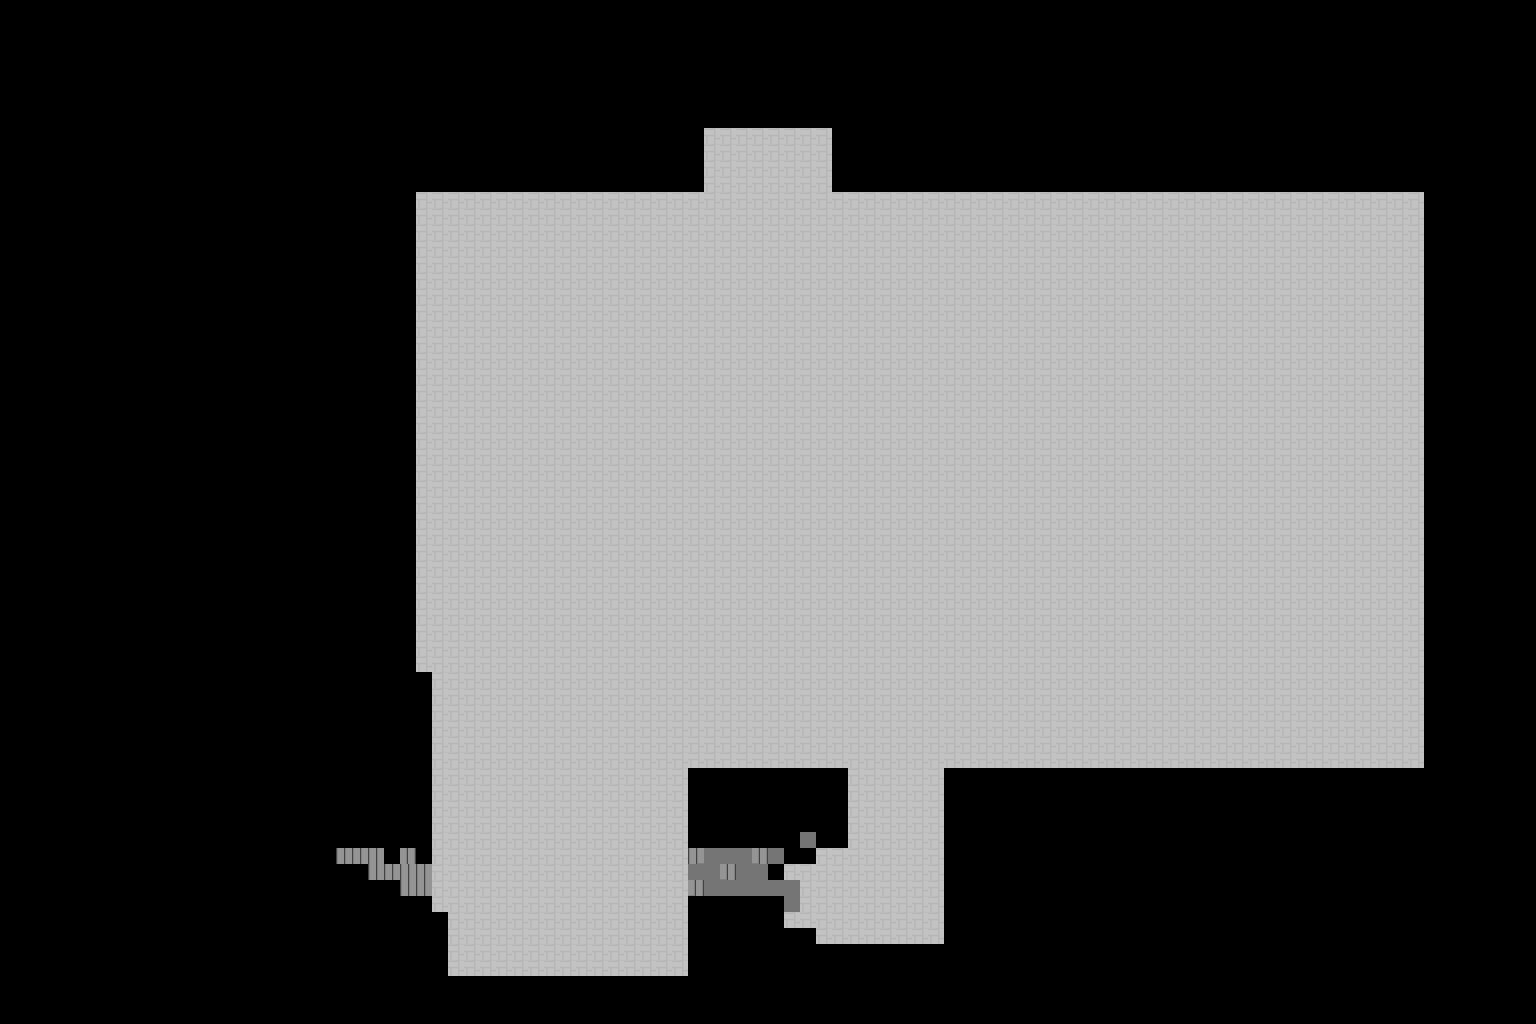
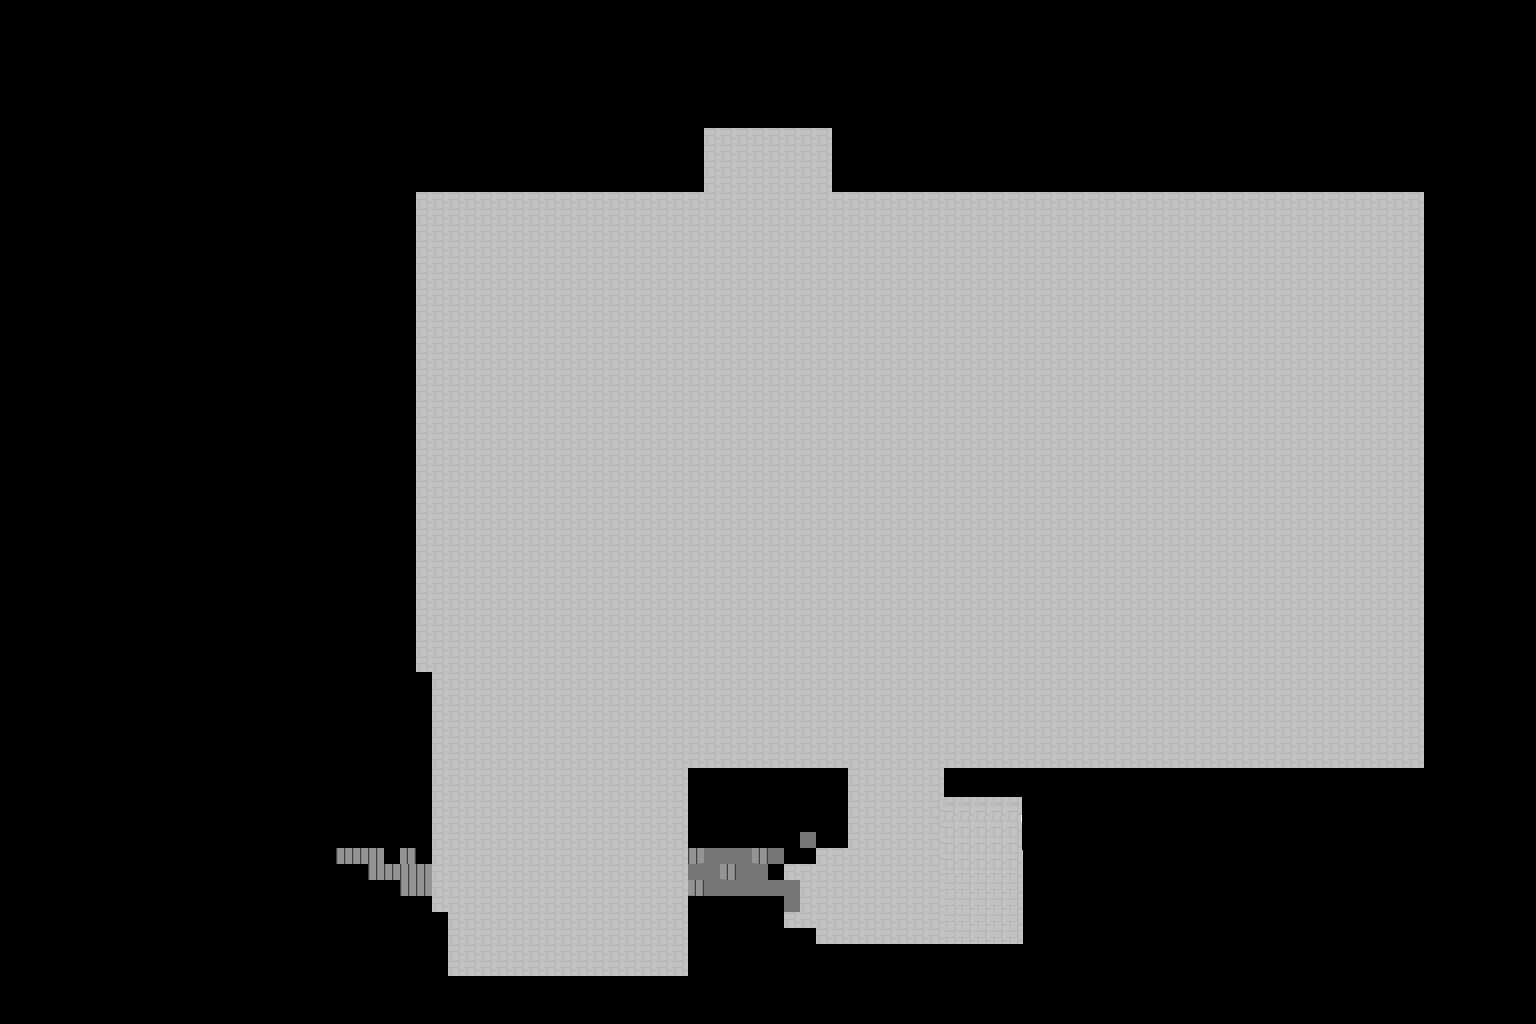
cubicle 2 adding walls

Changed region(s): [[0.5938, 0.7812, 0.6875, 0.9375]]

diff --git a/scenes/cubicle2.js b/scenes/cubicle2.js
@@ -22,8 +22,12 @@ export class Cubicle2 extends Phaser.Scene {
     this.load.image("escalera1Cu2", "assets/images/cubicle2/escalera1Cu2.png");
     this.load.image("escalera2Cu2", "assets/images/cubicle2/escalera2Cu2.png");
     this.load.image("cubicle2ParedSurEste", "assets/images/cubicle2/cubicle2ParedSurEste.png");
-  
-
+    this.load.image("cubicle2ParedMedioVertical", "assets/images/cubicle2/cubicle2ParedMedioVertical.png");
+    this.load.image("cubicle2ParedEntrada", "assets/images/cubicle2/cubicle2ParedEntrada.png");
+    this.load.image("cubicle2ParedSurMedio", "assets/images/cubicle2/cubicle2ParedSurMedio.png");
+    this.load.image("cubicle2ParedSurEste2", "assets/images/cubicle2/cubicle2ParedSurEste2.png");
+    this.load.image("cubiculo2Escritorios", "assets/images/cubicle2/cubiculo2Escritorios.png");
+    this.load.image("cubiculo2Escritorios2", "assets/images/cubicle2/cubiculo2Escritorios2.png");
   
   }
 
@@ -35,10 +39,9 @@ export class Cubicle2 extends Phaser.Scene {
     this.cameras.main.transparent = true;
     
     const fondoaula = this.add.image(800, 500, "pisoCubiculo2");
-   this.add.image(800, 500, "paredCu2");
     // const escalera2 = this.add.image(795, 632,  "escalera2");
     
-   
+    
 
 
    
@@ -54,22 +57,28 @@ export class Cubicle2 extends Phaser.Scene {
    crearPlataforma(59, 417, "paredeIzCu2", plataformas, scale);
    crearPlataforma(255, 504, "paredeIzTotalCu2", plataformas, scale);
    crearPlataforma(1467, 419, "paredeIzCu2", plataformas, scale);
+   this.add.image(750, 350, "cubiculo2Escritorios");
+   this.add.image(1100, 350, "cubiculo2Escritorios2");
    let pared1 = crearPlataforma(591, 524, "cubicle2ParedCentro1", plataformas, scale);
    let pared2 = crearPlataforma(975, 524, "cubicle2ParedCentro2", plataformas, scale);
    let pared3 = crearPlataforma(1100, 724, "cubicle2ParedCentro3", plataformas, scale);
    let escalera1Cu2 = crearPlataforma(782, 874, "escalera1Cu2", plataformaOverlap, scale);
    let escalera2Cu2 = crearPlataforma(891, 819, "escalera2Cu2", plataformaOverlap, scale);
    let paredSurEste = crearPlataforma(1260, 900, "cubicle2ParedSurEste", plataformas, scale);
+   let cubicle2ParedMedioVertical = crearPlataforma(1037, 221, "cubicle2ParedMedioVertical", plataformas, scale);
+   let cubicle2ParedEntrada = crearPlataforma(1147, 562, "cubicle2ParedEntrada", plataformas, scale);
+   let cubicle2ParedSurMedio = crearPlataforma(612, 970, "cubicle2ParedSurMedio", plataformas, scale);
+   let cubicle2ParedSurEste2 = crearPlataforma(1164, 948, "cubicle2ParedSurEste2", plataformas, scale);
    
 
 
-  let blur = crearPlataforma(758, 550, "redH", plataformaOverlap, 0.5);
-  let notBlur = crearPlataforma(758, 610, "redH", plataformaOverlap, 0.5);
-
-this.avatar = new Avatar(this, window.avatarX, window.avatarY, 1.5);
-
-
-this.physics.add.overlap(this.avatar.avatarPlayer, blur, () => {
+   let blur = crearPlataforma(758, 550, "redH", plataformaOverlap, 0.5);
+   let notBlur = crearPlataforma(758, 610, "redH", plataformaOverlap, 0.5);
+   
+   this.avatar = new Avatar(this, window.avatarX, window.avatarY, 1.5);
+   
+   
+   this.physics.add.overlap(this.avatar.avatarPlayer, blur, () => {
 
   //poner blur una platform
   pared1.alpha = 0.5;
